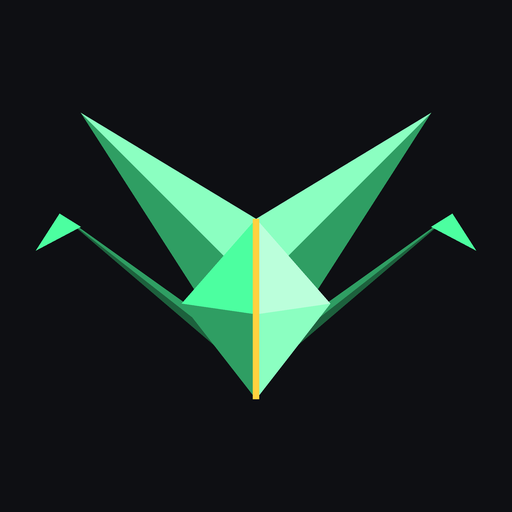
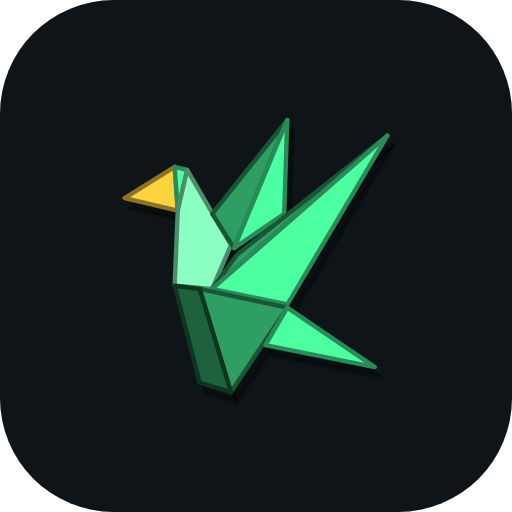
Page d'accueil refaite, journal 0.66.9 à 0.66.24, nouvelles images
Claude-Session: https://claude.ai/code/session_018o8FGHKgCxMsVdqDfBEhfv

diff --git a/README.md b/README.md
@@ -19,17 +19,36 @@
 
 Origami réunit l'émulation et les jeux de ton téléphone pliant dans une seule app, pensée pour le pli : à moitié plié, l'écran du haut devient la console et celui du bas la manette.
 
+<p align="center">
+  <img src="docs/images/captures-0.66.png" width="92%" alt="Bibliothèque et Demon's Souls sur PS3">
+</p>
+
 | | |
 |---|---|
 | 🎮 **Mode Tsuru** | Téléphone à moitié plié : accueil façon XMB, jeu en haut, manette tactile en bas. |
-| 📱 **Mode Washi** | Écran externe ou téléphone à plat : lanceur d'apps et bibliothèque. |
+| 📱 **Mode Washi** | Écran externe ou téléphone à plat : bibliothèque et lanceur d'apps. |
 | 🕹 **Manette Flex** | Une manette par console, choisie au lancement, qui suit la rotation. |
+| 📁 **Dossier Origami** | À l'installation, Origami crée `Origami/GAMES` (avec `GAMES/DLC`) et `Origami/BIOS` à la racine du téléphone. |
 | 🌐 **10 langues** | Français, anglais, espagnol, allemand, italien, portugais, russe, japonais, coréen, chinois. |
 | 🔄 **Mises à jour intégrées** | Versions stables et préversions proposées directement dans l'app. |
 
+## 🎨 Huit thèmes
+
+Chaque thème a son fond animé, sa manette assortie, ses icônes, sa police, ses bruitages et sa musique.
+
+| Thème | En une phrase |
+|---|---|
+| 📡 **Vigie** | Un faisceau radar qui veille dans la nuit verte. |
+| ❄ **Aurore** | Une nuit polaire sous les aurores. |
+| ⛩ **Torii** | Une pagode et un torii vermillon sous la lune rouge. |
+| 🌸 **Hanami** | Un cerisier en fleurs au-dessus de la rivière et du pont de lune. |
+| 🏙 **Mégapole** | Une ville japonaise la nuit, avec ses tours et ses projecteurs. |
+| 🌧 **Averse** | Une ruelle de Tokyo sous la pluie et ses néons. |
+| 🎋 **Brume** | Un temple de montagne dans la brume, ses lanternes et ses lucioles. |
+| 🌕 **Clair de lune** | Une grue en origami sous la pleine lune. |
+
 <p align="center">
-  <img src="docs/images/xmb-jeux-mobiles-remote-0.60.5.png" width="45%" alt="Accueil XMB">
-  <img src="docs/images/flex-portrait-0.60.3.png" width="45%" alt="Manette Flex">
+  <img src="docs/images/themes-torii-hanami-0.66.png" width="92%" alt="Torii et Hanami : fonds et manettes">
 </p>
 
 ## 🧩 Consoles
@@ -46,27 +65,26 @@ Origami réunit l'émulation et les jeux de ton téléphone pliant dans une seul
 
 ## ✨ Points forts
 
-- 🎨 Cinq thèmes (Codec, Arctique, Écarlate, Sakura, Ambre) appliqués sans redémarrage, avec fonds, manettes et icônes assortis.
-- 🏮 Andon : lumière d'ambiance autour de l'écran du jeu, aux couleurs de l'image ou du thème.
+- 🧠 Répartition des cœurs (PS3 et Xbox 360) : le son, le rendu et le jeu sur les gros cœurs, les shaders sur les moyens ; mode Économie pour moins chauffer.
+- ⚡ Profils Performance, Équilibré et Personnalisé ; PS3 en 720p (Performance) ou 1080p (Équilibré).
+- 📸 Touches Capture d'écran et Vidéo sur toutes les manettes.
+- 🏮 Lumen : lumière d'ambiance autour de l'écran du jeu, aux couleurs de l'image ou du thème.
 - 📊 ATH façon RTSS sur toutes les consoles : images/s, vitesse, processeur, mémoire, batterie, chauffe.
-- ⚡ Profils Performance, Équilibré, Qualité et Personnalisé, réglages visibles en direct.
 - 📲 En portrait, écran du jeu et manette coupés pile sur la charnière ; en paysage, plein écran.
-- 🗂 Lanceur d'apps avec tri et défilement rapide.
-- 🔔 Sons système propres à chaque thème : valider, retour, suivant, onglet, option activée ou désactivée, erreur, terminé.
-- 👇 Bibliothèque en mode Washi : tire vers le bas pour actualiser.
-- 🐞 « Copier le journal » en un clic (Réglages > Débogage) pour signaler un bug.
+- 🗂 Lanceur d'apps avec tri, grille ou liste et défilement rapide.
 - 📡 Colonne Remote Play (PlayStation, Xbox, Steam Link) et colonne Jeux mobiles.
 - 💾 Import et export des sauvegardes, import des BIOS et du firmware PS3.
 - 📐 Tous les pliants et tous les formats d'écran, changements à chaud.
-
-<p align="center">
-  <img src="docs/images/fonds-haut-manette-0.60.4.png" width="90%" alt="Thèmes">
-</p>
 
 ## ⭐ Mises à jour majeures
 
 | Version | Ce qu'elle a apporté |
 |---|---|
+| [0.66.24](https://github.com/orikami-dev/origami/releases/tag/v0.66.24) | Répartition des cœurs, dossier Origami à la racine, fonds Torii et Hanami refaits. |
+| [0.66.21](https://github.com/orikami-dev/origami/releases/tag/v0.66.21) | Thèmes renommés, touches Capture et Vidéo. |
+| [0.66.19](https://github.com/orikami-dev/origami/releases/tag/v0.66.19) | Manettes animées pour tous les thèmes. |
+| [0.66.13](https://github.com/orikami-dev/origami/releases/tag/v0.66.13) | Nouveau logo : la grue en vol. |
+| [0.66.7](https://github.com/orikami-dev/origami/releases/tag/v0.66.7) | Trois nouveaux thèmes, huit musiques. |
 | [0.65.24](https://github.com/orikami-dev/origami/releases/tag/v0.65.24) | Sons système propres à chaque thème (suivant, onglet, activé, erreur, terminé). |
 | [0.65.18](https://github.com/orikami-dev/origami/releases/tag/v0.65.18) | Andon : lumière d'ambiance autour de l'écran du jeu. |
 | [0.65.11](https://github.com/orikami-dev/origami/releases/tag/v0.65.11) | Préversions dans l'app : les nouveaux builds apparaissent seuls. |
@@ -90,7 +108,7 @@ Origami réunit l'émulation et les jeux de ton téléphone pliant dans une seul
 | `app/` | L'app Android (Java, sans Gradle) et `build.sh` |
 | `native/` | Pont libretro, pont PS3, scripts de compilation et correctifs des moteurs |
 | `prebuilt/` | Moteurs compilés (non versionnés, refaits par `native/build-*.sh`) |
-| `docs/` | Notes techniques, notes de chaque version, images |
+| `docs/` | Notes de chaque version (`docs/releases`), images |
 | `tools/` | Installation du SDK, publication des versions |
 
 Construire : `bash app/build.sh` (voir l'en-tête du script).

diff --git a/CHANGELOG.md b/CHANGELOG.md
@@ -2,6 +2,91 @@
 
 Studio : KAMI-WORKS.
 
+## 0.66.24 ⭐
+
+- Fond Torii refait : la pagode vermillon allumée sur son mont, un petit torii et ses lanternes, la lune rouge en facettes, des feuilles d'érable qui tombent.
+- Hanami : un grand cerisier en fleurs au premier plan du fond d'écran.
+- Manette Hanami refaite : le pont de lune et son reflet, des branches de cerisier, de l'eau qui ondule et des pétales.
+- Réglages du XMB : la grande bulle de droite qui répétait le réglage choisi est retirée.
+- Lanceur d'applications : la liste n'est plus coupée en bas.
+- Dossier Origami créé à la racine du téléphone (Origami/GAMES pour les jeux avec GAMES/DLC, Origami/BIOS pour les BIOS), proposé par l'assistant de démarrage avec l'accès aux fichiers.
+- PS3 et Xbox 360 : nouveau réglage « Répartition des cœurs » (Performance par défaut) : son, rendu et jeu sur les gros cœurs, compilation des shaders sur les cœurs moyens ; mode Économie pour moins chauffer.
+- Alerte quand le téléphone surchauffe en jeu.
+
+## 0.66.22
+
+- Manette Torii refaite : grand portique vermillon, lanternes et braises qui montent.
+- Hanami : nouvelle eau du fond d'écran, douce, avec reflets de lune et pétales qui dérivent.
+- Descriptions des thèmes réécrites, une phrase pour chacun.
+- PS3 : définition par défaut en 720p en Performance et 1080p en Équilibré (Demon's Souls compris).
+- Toucher le vide ne fait plus de bruit, quel que soit le thème.
+
+## 0.66.21 ⭐
+
+- Thèmes renommés : Vigie, Aurore, Torii, Hanami, Mégapole, Averse, Brume et Clair de lune, avec des descriptions à jour.
+- Manettes : radar à un seul faisceau avec échos rouges qui clignotent, Mégapole refaite (tour, tours de verre, projecteurs), gouttes qui font des ronds sur Averse, temple de Brume plus détaillé.
+- Hanami : l'eau du fond d'écran refaite (facettes, éclats de lune, rides).
+- Nouvelles touches Capture d'écran et Vidéo sur toutes les manettes.
+- Sauvegarde et chargement rapides retirés des menus (les touches de la manette suffisent).
+- Xbox 360 : le menu Home ne fige plus le jeu, shaders en arrière-plan rétablis.
+
+## 0.66.20
+
+- Mises à jour : le détail (version installée, stable, préversion) s'affiche sous « Origami est à jour ».
+
+## 0.66.19 ⭐
+
+- Manettes animées pour tous les thèmes : ondes sur l'eau (Argent), neige, braises, pétales, phares, pluie, lucioles, balayage radar.
+
+## 0.66.18
+
+- Titres des menus dans la police du thème.
+- Menus de l'accueil sur fond plein, sans la liste des jeux en transparence.
+
+## 0.66.17
+
+- Nouvel écran de démarrage : les plis de la grue se dessinent, puis elle se colore au centre.
+- Thème Argent : plus de grues sur le fond ni sur la manette ; étoiles filantes et brume devant la lune.
+
+## 0.66.16
+
+- XMB : plus de texte dans les icônes, sauf les consoles et Remote Play.
+
+## 0.66.15
+
+- Nouvelle grue partout : fonds animés, manette, joystick, écran de démarrage.
+- Interrupteurs des Réglages plus coupés.
+- Liste des applications sur fond plein.
+- PS3 : cache de shaders sur disque toujours actif (shaders recompilés au chargement).
+
+## 0.66.14
+
+- Une police par thème : Exo 2, Cinzel, Quicksand, Marcellus, Orbitron, Josefin Sans, Jura.
+- PS3 : moins de compilations de shaders en parallèle pour éviter un plantage du pilote au démarrage.
+
+## 0.66.13 ⭐
+
+- Nouveau logo : la grue en vol, angles arrondis, contours, ombres et lumières.
+- Nouvelles icônes du lanceur, une par thème.
+- Bec de la grue en jaune.
+
+## 0.66.12
+
+- « Mises à jour et À propos » devient « Version ».
+
+## 0.66.11
+
+- Plus de texte sous l'icône Réglages du XMB.
+
+## 0.66.10
+
+- Son de Demon's Souls : tampon plus long, sans étirement du temps (moins de distorsion).
+
+## 0.66.9
+
+- Son du premier appui : plus de lecture avant chargement.
+- Grues du thème Argent : ailes qui pivotent à la racine.
+
 ## 0.66.8
 
 - XMB en mode Tsuru : la catégorie « Paramètres » devient « Réglages », son nom ne se coupe plus.

diff --git a/docs/releases/0.66.22.md b/docs/releases/0.66.22.md
@@ -5,4 +5,3 @@
 - Descriptions des thèmes réécrites, une phrase pour chacun
 - PS3 : définition par défaut en 720p en Performance et 1080p en Équilibré (Demon's Souls compris)
 - Toucher le vide ne fait plus de bruit, quel que soit le thème
-- Xbox 360 : journal plus détaillé pour l'écran noir
